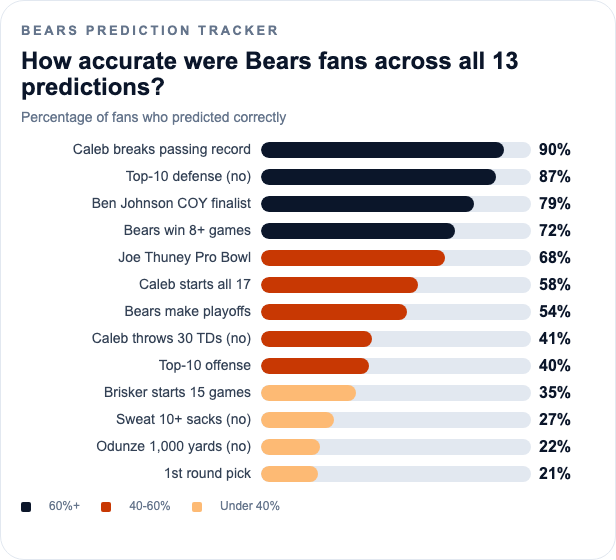
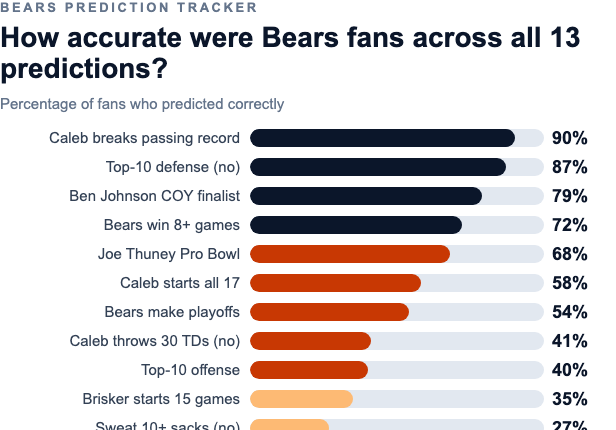
email: simplify community accuracy chart presentation

diff --git a/email-drafts/season-recap-assets/community-accuracy.html b/email-drafts/season-recap-assets/community-accuracy.html
@@ -6,22 +6,20 @@
     <style>
       body {
         margin: 0;
-        background: #ffffff;
+        background: transparent;
         font-family: Arial, Helvetica, sans-serif;
         color: #1e293b;
         width: 616px;
-        height: 560px;
+        height: 430px;
         overflow: hidden;
       }
 
       .card {
         width: 616px;
-        height: 560px;
+        height: 430px;
         box-sizing: border-box;
-        border: 1px solid #e2e8f0;
-        border-radius: 24px;
         background: #ffffff;
-        padding: 22px 20px 20px;
+        padding: 0;
       }
 
       .eyebrow {
@@ -34,30 +32,30 @@
       }
 
       h1 {
-        margin: 10px 0 8px;
-        font-size: 24px;
+        margin: 8px 0 10px;
+        font-size: 28px;
         line-height: 1.1;
         color: #0b162a;
       }
 
       .subhead {
         margin: 0 0 16px;
-        font-size: 14px;
+        font-size: 15px;
         color: #64748b;
       }
 
       .row {
-        margin-bottom: 9px;
+        margin-bottom: 8px;
         font-size: 0;
       }
 
       .label {
         display: inline-block;
-        width: 240px;
+        width: 250px;
         padding-right: 10px;
         box-sizing: border-box;
         vertical-align: middle;
-        font-size: 14px;
+        font-size: 15px;
         line-height: 1.2;
         text-align: right;
         color: #334155;
@@ -65,14 +63,14 @@
 
       .bar-wrap {
         display: inline-block;
-        width: 326px;
+        width: 356px;
         vertical-align: middle;
       }
 
       .bar-track {
         display: inline-block;
-        width: 270px;
-        height: 16px;
+        width: 294px;
+        height: 18px;
         vertical-align: middle;
         overflow: hidden;
         border-radius: 999px;
@@ -80,30 +78,31 @@
       }
 
       .bar-fill {
-        height: 16px;
+        height: 18px;
         border-radius: 999px;
       }
 
       .pct {
         display: inline-block;
-        width: 48px;
+        width: 54px;
         margin-left: 8px;
         vertical-align: middle;
-        font-size: 16px;
+        font-size: 18px;
         font-weight: 700;
         color: #0b162a;
       }
 
       .legend {
-        margin-top: 16px;
+        margin-top: 14px;
         font-size: 12px;
         color: #64748b;
       }
 
       html {
         width: 616px;
-        height: 560px;
+        height: 430px;
         overflow: hidden;
+        background: transparent;
       }
 
       .legend span {

diff --git a/supabase/functions/_shared/seasonRecapEmail.ts b/supabase/functions/_shared/seasonRecapEmail.ts
@@ -36,12 +36,14 @@ function renderImageSection({
   alt,
   href,
   caption,
+  framed = true,
   topPadding = 20,
 }: {
   imageUrl?: string;
   alt: string;
   href?: string;
   caption?: string;
+  framed?: boolean;
   topPadding?: number;
 }) {
   if (!imageUrl) return "";
@@ -51,7 +53,7 @@ function renderImageSection({
       src="${escapeHtml(imageUrl)}"
       alt="${escapeHtml(alt)}"
       width="616"
-      style="display:block; width:100%; max-width:616px; height:auto; border:1px solid #cbd5e1; border-radius:24px;"
+      style="display:block; width:100%; max-width:616px; height:auto;${framed ? ' border:1px solid #cbd5e1; border-radius:24px;' : ''}"
     />
   `;
 
@@ -143,6 +145,7 @@ export function buildSeasonRecapEmail({
               imageUrl: imageUrls.communityAccuracy,
               alt: "Community accuracy chart for 2025 Bears predictions",
               href: safeRecapUrl,
+              framed: false,
               topPadding: 28,
             })}
 
